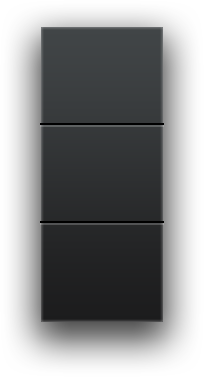
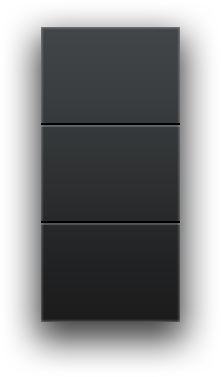
better multiple button with animation

Changed region(s): [[0.7647, 0.0584, 0.8235, 0.8753], [0.1765, 0.0584, 0.2353, 0.8753]]

diff --git a/UltraCalc/ViewController.m b/UltraCalc/ViewController.m
@@ -28,30 +28,30 @@
 }
 
 - (void) evaluate {
-//    DDMathEvaluator *eval = [self evaluator];
-//    NSMutableDictionary * variables = [NSMutableDictionary dictionary];//useless
-//    
-//	NSString * string = [inputTextField text];
-//	NSError *error = nil;
-//	if ([string length] > 0) {
-//		DDExpression * expression = [DDExpression expressionFromString:string error:&error];
-//		if (error == nil) {
-//			NSLog(@"parsed: %@", expression);
-//			//[self updateVariablesWithExpression:expression];
-//			NSNumber * result = [expression evaluateWithSubstitutions:variables evaluator:eval error:&error];
-//			if (error == nil) {
-//				[resultLabel setTextColor:[UIColor blackColor]];
-//				[resultLabel setText:[result description]];
-//			}
-//		}
-//	} else {
-//		[resultLabel setText:@""];
-//		[variables removeAllObjects];
-//	}
-//	if (error != nil) {
-//		NSLog(@"error: %@", error);
-//		[resultLabel setTextColor:[UIColor redColor]];
-//	}
+    DDMathEvaluator *eval = [self evaluator];
+    NSMutableDictionary * variables = [NSMutableDictionary dictionary];//useless
+    
+	NSString * string = [inputLabel text];
+	NSError *error = nil;
+	if ([string length] > 0) {
+		DDExpression * expression = [DDExpression expressionFromString:string error:&error];
+		if (error == nil) {
+			NSLog(@"parsed: %@", expression);
+			//[self updateVariablesWithExpression:expression];
+			NSNumber * result = [expression evaluateWithSubstitutions:variables evaluator:eval error:&error];
+			if (error == nil) {
+				[resultLabel setTextColor:[UIColor whiteColor]];
+				[resultLabel setText:[result description]];
+			}
+		}
+	} else {
+		[resultLabel setText:@""];
+		[variables removeAllObjects];
+	}
+	if (error != nil) {
+		NSLog(@"error: %@", error);
+		[resultLabel setTextColor:[UIColor redColor]];
+	}
 	
 	//[variableList reloadData];		
 }
@@ -132,8 +132,9 @@
     [logMultipleButton setDataSource:self];
     
     CGRect rect= logView.frame;
-    rect.origin.x = 10;
-    rect.origin.y = 23;
+    rect.origin.x = -14;
+    rect.origin.y = -108;
+    rect.size.height *= 3;
     [[logMultipleButton view] setFrame:rect];
     
     [logView addSubview: logMultipleButton.view];
@@ -145,8 +146,10 @@
     [sqrtMultipleButton setDataSource:self];
     
     rect= sqrtView.frame;
-    rect.origin.x = 10;
-    rect.origin.y = 23;
+    rect.origin.x = -14;
+    rect.origin.y = -108;
+    rect.size.height *= 3;
+
     [[sqrtMultipleButton view] setFrame:rect];
     
     [sqrtView addSubview: sqrtMultipleButton.view];
@@ -159,8 +162,10 @@
     [sinMultipleButton setDataSource:self];
     
     rect= sinView.frame;
-    rect.origin.x = 10;
-    rect.origin.y = 23;
+    rect.origin.x = -14;
+    rect.origin.y = -108;
+    rect.size.height *= 3;
+
     [[sinMultipleButton view] setFrame:rect];
     
     [sinView addSubview: sinMultipleButton.view];
@@ -172,8 +177,10 @@
     [arcsinMultipleButton setDataSource:self];
     
     rect= arcsinView.frame;
-    rect.origin.x = 10;
-    rect.origin.y = 23;
+    rect.origin.x = -14;
+    rect.origin.y = -108;
+    rect.size.height *= 3;
+
     [[arcsinMultipleButton view] setFrame:rect];
     
     [arcsinView addSubview: arcsinMultipleButton.view];
@@ -187,8 +194,10 @@
     [sinhMultipleButton setDataSource:self];
     
     rect= sinhView.frame;
-    rect.origin.x = 10;
-    rect.origin.y = 23;
+    rect.origin.x = -14;
+    rect.origin.y = -108;
+    rect.size.height *= 3;
+
     [[sinhMultipleButton view] setFrame:rect];
     
     [sinhView addSubview: sinhMultipleButton.view];
@@ -200,8 +209,10 @@
     [xyMultipleButton setDataSource:self];
     
     rect= xyView.frame;
-    rect.origin.x = 10;
-    rect.origin.y = 23;
+    rect.origin.x = -14;
+    rect.origin.y = -108;
+    rect.size.height *= 3;
+
     [[xyMultipleButton view] setFrame:rect];
     
     [xyView addSubview: xyMultipleButton.view];
@@ -212,6 +223,9 @@
     [super viewDidLoad];
         
     [self loadMultipleButtons];
+    
+    
+    answerTableView.allowsMultipleSelectionDuringEditing = YES;
     
     
     for( NSString *familyName in [UIFont familyNames] ) {
@@ -249,6 +263,8 @@
     xyView = nil;
     inputLabel = nil;
     answerTableView = nil;
+    editAnswerTableBtn = nil;
+    resultLabel = nil;
     [super viewDidUnload];
     // Release any retained subviews of the main view.
 }
@@ -256,19 +272,52 @@
 -(IBAction)digitPressed:(id)sender
 {
     NSLog(@"digitPressed");
+    UIButton *btn = (UIButton*) sender;
+    if([inputLabel.text isEqualToString:@"0"])
+    {
+        inputLabel.text = [NSString stringWithFormat:@"%d",btn.tag];
+    }
+    else {
+        inputLabel.text = [inputLabel.text stringByAppendingFormat:@"%d",btn.tag];
+    }
 }
 
 -(IBAction)delPressed:(id)sender
 {
     NSLog(@"delPressed");
+    if([inputLabel.text length] <= 1)
+    {
+        inputLabel.text = @"0";
+    }
+    else {
+        inputLabel.text = [inputLabel.text stringByPaddingToLength:inputLabel.text.length - 1 withString:nil startingAtIndex:0];
+    }
 }
 -(IBAction)allClearPressed:(id)sender
 {
     NSLog(@"allClearPressed");
+    inputLabel.text = @"0";
 }
 -(IBAction)operatorPressed:(id)sender
 {
     NSLog(@"operatorPressed");
+    UIButton *btn = (UIButton*) sender;
+    switch (btn.tag) {
+        case 1:
+            inputLabel.text = [inputLabel.text stringByAppendingFormat:@"+"];
+            break;
+        case 2:
+            inputLabel.text = [inputLabel.text stringByAppendingFormat:@"-"];
+            break;
+        case 3:
+            inputLabel.text = [inputLabel.text stringByAppendingFormat:@"*"];
+            break;
+        case 4:
+            inputLabel.text = [inputLabel.text stringByAppendingFormat:@"/"];
+            break;
+        default:
+            break;
+    }
 }
 -(IBAction)positiveMinusPressed:(id)sender
 {
@@ -276,11 +325,13 @@
 }
 -(IBAction)dotPressed:(id)sender
 {
+    inputLabel.text = [inputLabel.text stringByAppendingFormat:@"."];
     NSLog(@"dotPressed");
 }
 -(IBAction)goPressed:(id)sender
 {
     NSLog(@"goPressed");
+    [self evaluate];
 }
 
 -(BOOL)MultipleButtonNeedSendBackAfterTouch:(MultipleButtonViewController*)button
@@ -488,9 +539,11 @@
 }
 
 
--(void)viewWillAppear:(BOOL)animated
+-(IBAction)editAnswerTable:(id)sender
 {
+    [answerTableView setEditing:!answerTableView.editing animated:YES];
     
 }
+
 
 @end

diff --git a/UltraCalc/MultipleButtonViewController.m b/UltraCalc/MultipleButtonViewController.m
@@ -64,24 +64,43 @@
 
 -(void)showOtherBtn
 {
-    background.hidden = NO;
-    appendixBtn2.hidden = NO;
-    appendixBtn1.hidden = NO;
+    [UIView animateWithDuration:0.1 animations:^{
+        //background.hidden = NO;
+        //appendixBtn2.hidden = NO;
+        //appendixBtn1.hidden = NO;
+        background.alpha = 1.0;
+        appendixBtn1.alpha = 1.0;
+        appendixBtn2.alpha = 1.0f;
+        
+    }];
+    
+    background.userInteractionEnabled = YES;
+    appendixBtn1.userInteractionEnabled = YES;
+    appendixBtn2.userInteractionEnabled = YES;
     
     [[[self.view superview] superview] bringSubviewToFront:[self.view superview]];
 }
 
 -(void)dismissOtherBtn
 {
-    background.hidden = YES;
-    appendixBtn2.hidden = YES;
-    appendixBtn1.hidden = YES;
+    [UIView animateWithDuration:0.3 animations:^{
+        background.alpha = 0.0;
+        appendixBtn1.alpha = 0.0;
+        appendixBtn2.alpha = 0.0f;
+    } completion:^(BOOL finish){
+        if([datasource MultipleButtonNeedSendBackAfterTouch:self])[[[self.view superview] superview] sendSubviewToBack:[self.view superview]];
+    }];
+    
+    background.userInteractionEnabled = NO;
+    appendixBtn1.userInteractionEnabled = NO;
+    appendixBtn2.userInteractionEnabled = NO;
+    
     
     [mainBtn setHighlighted:NO];
     [appendixBtn1 setHighlighted:NO];
     [appendixBtn2 setHighlighted:NO];
     
-    if([datasource MultipleButtonNeedSendBackAfterTouch:self])[[[self.view superview] superview] sendSubviewToBack:[self.view superview]];
+    
 }
 
 
@@ -206,9 +225,13 @@
 {
     [super viewDidLoad];
     
-    background.hidden = YES;
-    appendixBtn2.hidden = YES;
-    appendixBtn1.hidden = YES;
+    background.alpha = 0.0;
+    appendixBtn1.alpha = 0.0;
+    appendixBtn2.alpha = 0.0f;
+
+    background.userInteractionEnabled = NO;
+    appendixBtn1.userInteractionEnabled = NO;
+    appendixBtn2.userInteractionEnabled = NO;
     
     [self updateViewContent];
 	// Do any additional setup after loading the view.

diff --git a/UltraCalc/ViewController.h b/UltraCalc/ViewController.h
@@ -39,8 +39,12 @@
     
     __weak IBOutlet UILabel *inputLabel;
     
+    __weak IBOutlet UILabel *resultLabel;
+    
+    
     __weak IBOutlet UITableView *answerTableView;
     
+    __weak IBOutlet UIButton *editAnswerTableBtn;
     
 }
 
@@ -52,4 +56,5 @@
 -(IBAction)dotPressed:(id)sender;
 -(IBAction)goPressed:(id)sender;
 
+-(IBAction)editAnswerTable:(id)sender;
 @end
